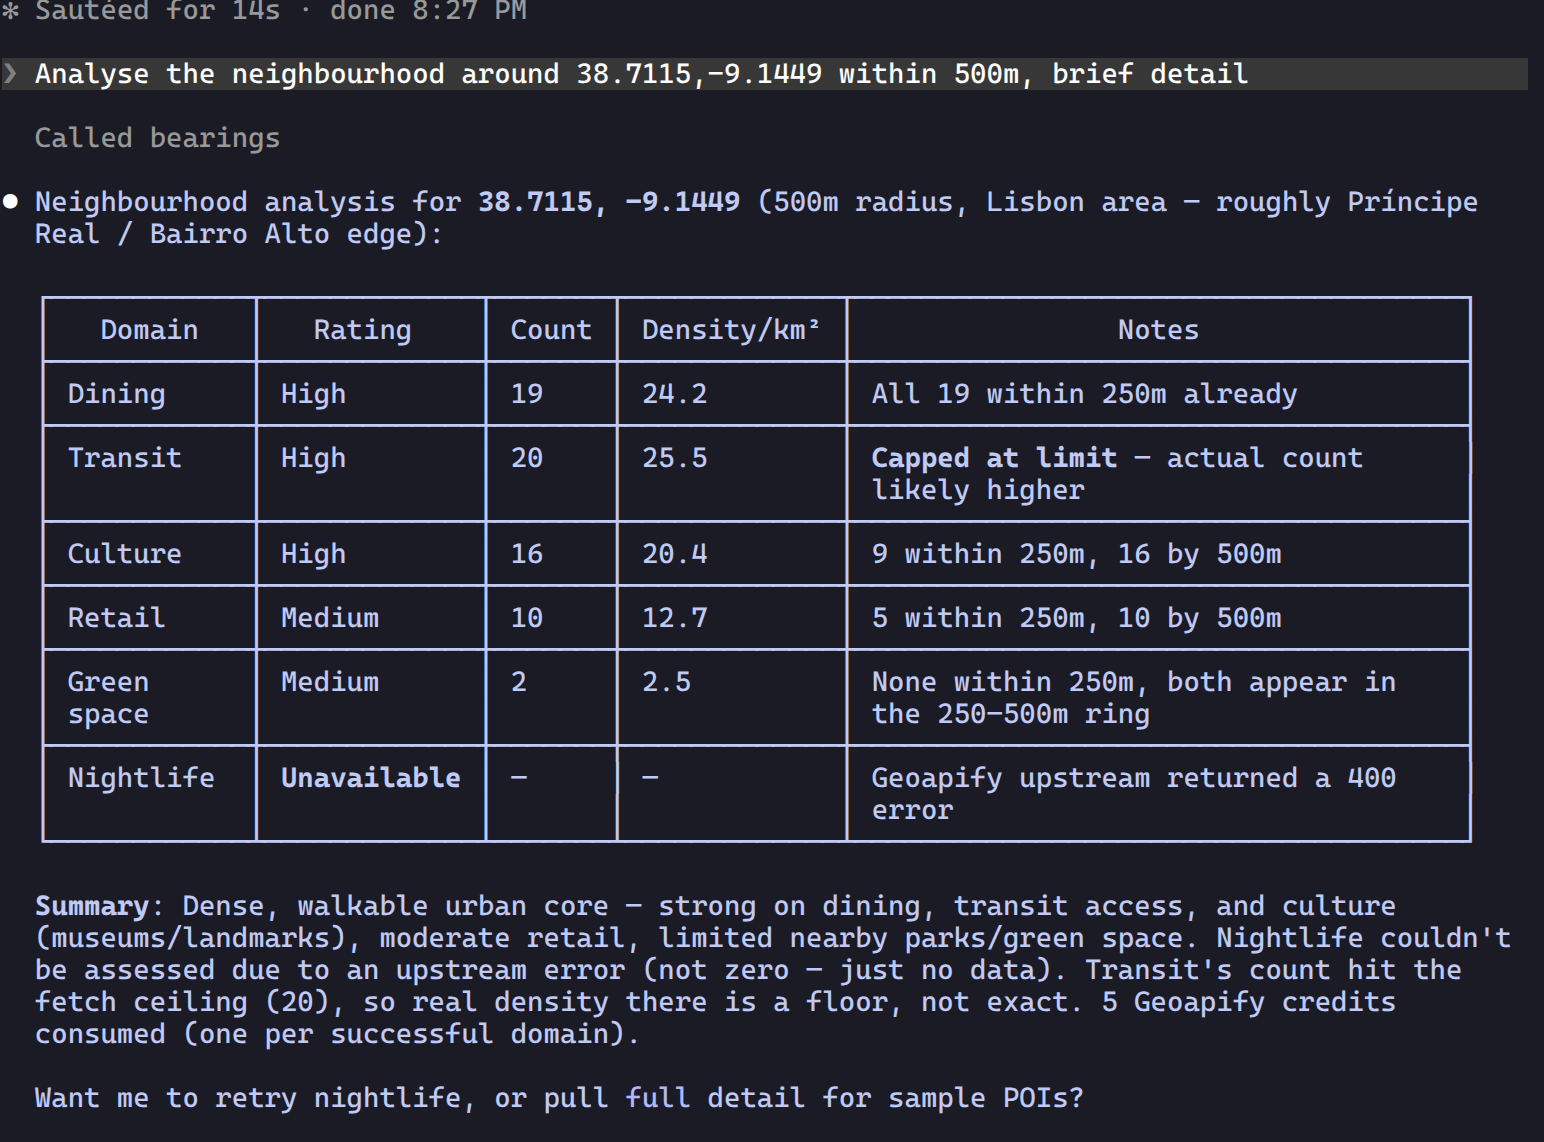
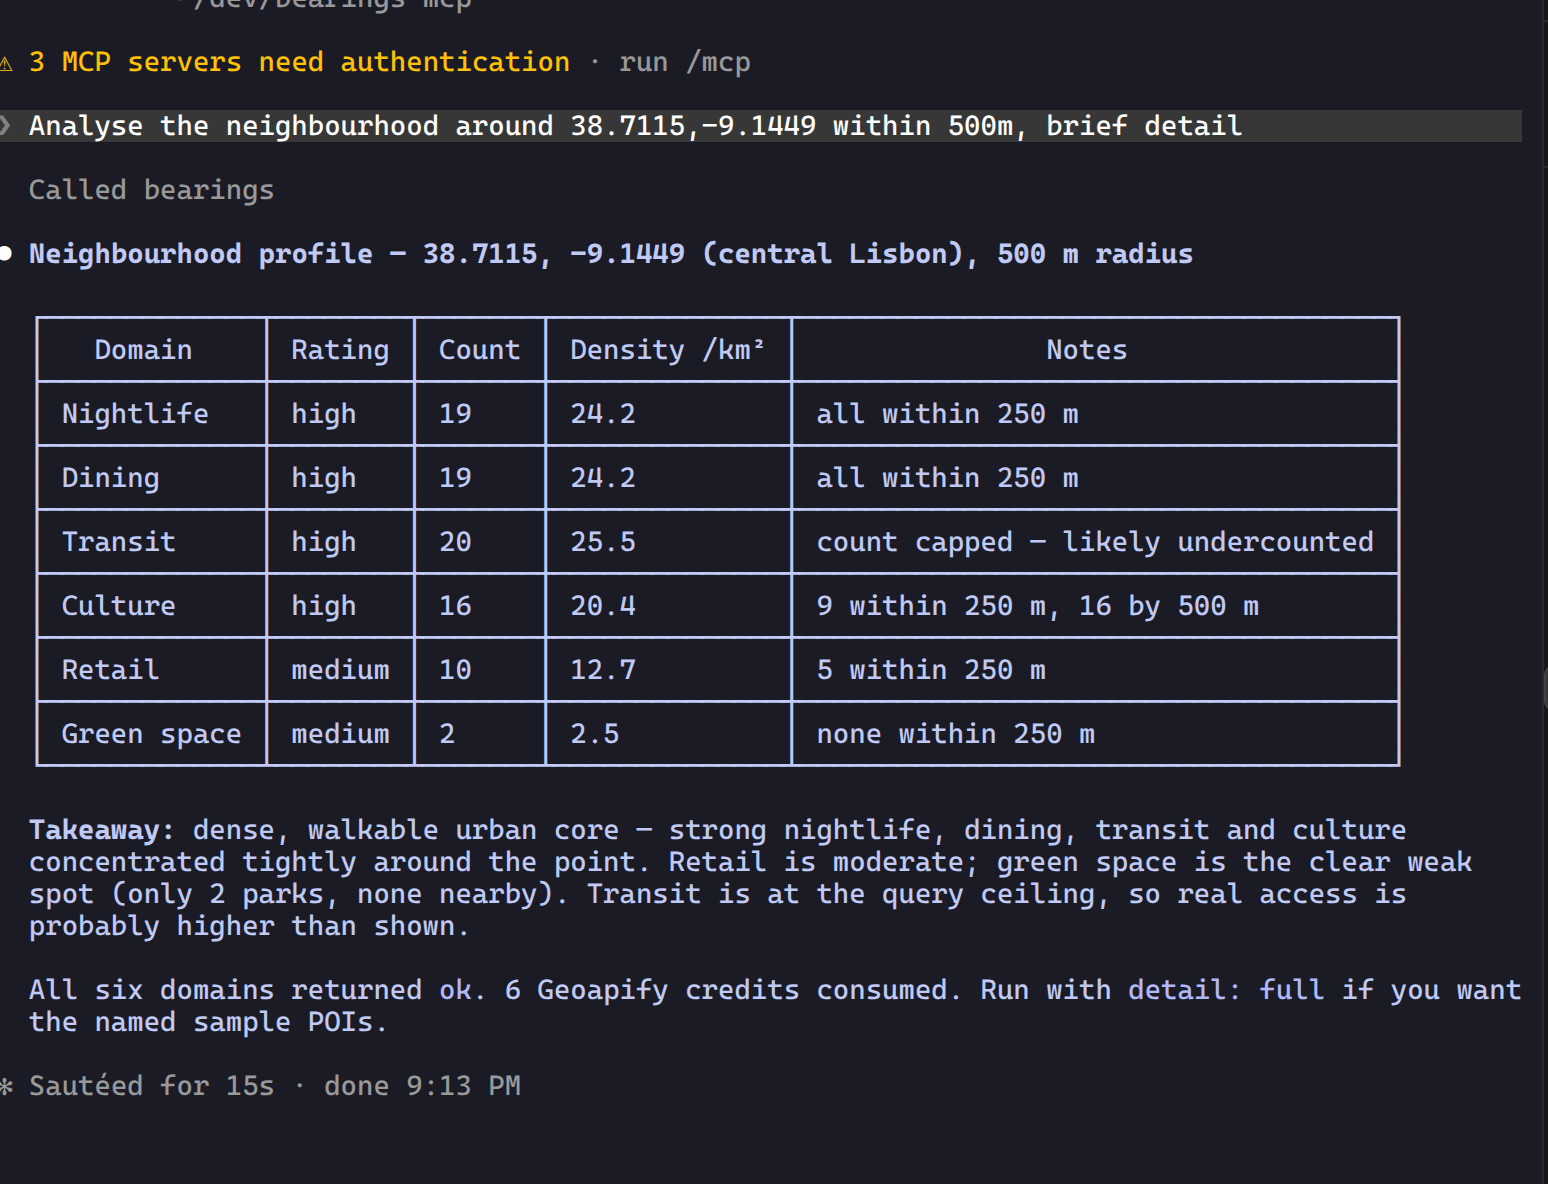
📝docs(readme): note the entertainment.nightclub category correction
The walkthrough paragraph framed the nightlife 400 purely as a
partial-failure demo. Name the root cause (the invalid
`entertainment.nightclub` category), record that it's fixed, and flag
that the screenshot predates the fix. The partial-failure point it
illustrates still stands.

Claude-Session: https://claude.ai/code/session_01UTPyyaLua2iWHmHKzrUScn

Changed region(s): [[0.0, 0.0, 0.9948, 0.9807], [0.9948, 0.5517, 1.0, 0.613]]

diff --git a/README.md b/README.md
@@ -2,7 +2,7 @@
 
 > A place name goes in. A structured location, a stay forecast, or an honest walking-distance read on the neighbourhood comes out — with the upstream cost of every call on the table.
 
-Bearings is an MCP server with three tools backed by public HTTP APIs, plus a React inspector that proves the two never drift apart. Built as a take-home for a hotel chain's engineering team — the interesting parts are the constraints: a geocoder that bans your IP at 1 req/sec, a POI API metered in credits, and agent callers that pay by the token for every field you return.
+Bearings is an MCP server with three tools backed by public HTTP APIs, plus a React inspector that renders its forms from the server's own schemas — so the UI cannot drift from what the tools actually accept. Built as a take-home for a hotel chain's engineering team, and the interesting parts are all constraints: a geocoder that bans your IP at 1 req/sec, a POI API metered in credits, and agent callers that pay by the token for every field you hand back.
 
 ```
 resolve_destination          fuzzy name → structured Location
@@ -43,6 +43,32 @@ pnpm start:both   # both at once
 ```
 
 Each wraps `node packages/server/dist/cli.js [--transport …]`, which still works called directly.
+
+### Test the HTTP transport with curl
+
+Almada, Portugal — one command to start the server, one copy-paste to call a tool:
+
+```bash
+# terminal 1 — HTTP transport (needs GEOAPIFY_API_KEY in .env)
+pnpm start:http   # http://127.0.0.1:3000/mcp
+```
+
+```bash
+# terminal 2 — open a session, capture its id, call resolve_destination
+SID=$(curl -s -D - http://127.0.0.1:3000/mcp \
+  -H "content-type: application/json" \
+  -H "accept: application/json, text/event-stream" \
+  -d '{"jsonrpc":"2.0","id":1,"method":"initialize","params":{"protocolVersion":"2024-11-05","capabilities":{},"clientInfo":{"name":"curl","version":"0"}}}' \
+  | grep -i mcp-session-id | cut -d' ' -f2 | tr -d '\r')
+
+curl http://127.0.0.1:3000/mcp \
+  -H "content-type: application/json" \
+  -H "accept: application/json, text/event-stream" \
+  -H "mcp-session-id: $SID" \
+  -d '{"jsonrpc":"2.0","id":2,"method":"tools/call","params":{"name":"resolve_destination","arguments":{"query":"Almada, Portugal"}}}'
+```
+
+The transport is stateful — reuse `$SID` for every later call. Missing or unknown `mcp-session-id` returns `400`/`404` (`packages/server/src/transports/http.ts:1`).
 
 Smoke-test stdio without a client:
 
@@ -135,7 +161,11 @@ Analyse the neighbourhood around 38.7115,-9.1449 within 500m, brief detail
 
 Each response carries `_meta["bearings/tokens"]` (token estimate) and, for `analyse_neighbourhood`, a `credits` block — the inspector's CostMeter reads the same fields.
 
-Here's that exact sequence, unedited, from an actual Claude Code session against this server:
+Put all three in one prompt and the model walks the chain itself — resolve the name, carry the `Location` forward, then read the neighbourhood off the coordinates it just got back:
+
+![One prompt — resolve Almada, brief the weather, analyse the neighbourhood — and the server is called three times in sequence, each tool's output feeding the next](./docs/images/bearings%20single%20prompt.png)
+
+That's the `resolve_destination → get_destination_brief → analyse_neighbourhood` tree from the top of this README, run end to end from a single sentence. The four shots below take the same flow apart, one tool at a time:
 
 ![resolve_destination("Lisbon") comes back unambiguous — one clear match, not a candidate list](./docs/images/bearings-resolve%20destination.png)
 
@@ -145,7 +175,7 @@ Here's that exact sequence, unedited, from an actual Claude Code session against
 
 ![The same call at detail: full — every domain's actual nearest POIs, not just counts](./docs/images/bearings-full%20detail.png)
 
-Worth noting what didn't get smoothed over: Geoapify's nightlife category threw a 400 on this run, and the model reported it as "unavailable," not silently as zero — even standing in Bairro Alto, Lisbon's own nightlife district. That's the `sources` block and the `ToolError` taxonomy doing their job, not a scripted demo.
+Worth noting what didn't get smoothed over: on this run Geoapify's nightlife query threw a 400 — the category adapter was sending `entertainment.nightclub`, which isn't a real leaf in [Geoapify's taxonomy](https://apidocs.geoapify.com/docs/places/#categories) — and the model reported it as "unavailable," not silently as zero, even standing in Bairro Alto, Lisbon's own nightlife district. The bad category has since been corrected (the domain now queries `entertainment` alongside `catering.bar` and `catering.pub`), and the screenshot above predates that fix. What it captures still holds: the `sources` block and the `ToolError` taxonomy degrade one failed domain without dragging down the other five.
 
 ### 5. Project-scoped alternative (`.mcp.json`)
 
@@ -267,6 +297,8 @@ Worst-case is `contentTokens × 2` — the MCP spec serialises into both `conten
 
 ## Upstream risks
 
+Four free public APIs, four different ways to get cut off mid-request. Each has one specific failure mode and one specific answer for it — nothing here degrades silently:
+
 | Risk | Trigger | Mitigation |
 |---|---|---|
 | **Nominatim IP ban** | >1 req/sec; missing `User-Agent` | Token-bucket at 1 req/sec; descriptive `User-Agent`; 30-day cache |
@@ -286,13 +318,13 @@ pnpm knip        # unused files, exports and dependencies
 pnpm lint        # biome check . — lint + format
 ```
 
-Upstreams are mocked at the HTTP client core boundary; fixtures are committed in `packages/server/test/fixtures/`. CI runs lint → knip → build → typecheck → test on every push. Manual checks that need a live network or a real client (rate limiter, quota, handshake, inspector click-through) are in `docs/manual-checks.md`.
+Upstreams are mocked at the HTTP client core boundary; fixtures are committed in `packages/server/test/fixtures/`. CI runs lint → knip → build → typecheck → test on every push. The handful of checks that only a live network or a real client can settle — the Nominatim rate limiter, the Geoapify quota path, the MCP handshake over a real transport, an inspector click-through, a clean-clone cold start — are run by hand.
 
 ---
 
 ## AI-assisted development
 
-Built with heavy AI assistance — forthrightly, since the role is an AI agents platform.
+Built with heavy AI assistance, said plainly — this is a submission for an AI agents platform, so a hidden workflow would rather defeat the point.
 
 - **Scaffolding — [Hocus](https://darkmagicstudios.com/products/hocus)**, a tool the author develops, used to scaffold agent personas, skills, and per-harness configuration so the same roster applies across Claude Code, Cursor, OpenCode and Antigravity.
 - **Planning → tickets → execution.** Architecture was planned in Claude, then broken into Linear tickets (`DMS-###`). Foundations first (shared schemas, HTTP core, walking-skeleton server), then feature tickets each in its own git worktree via Orca. Some upstream clients landed in parallel.
